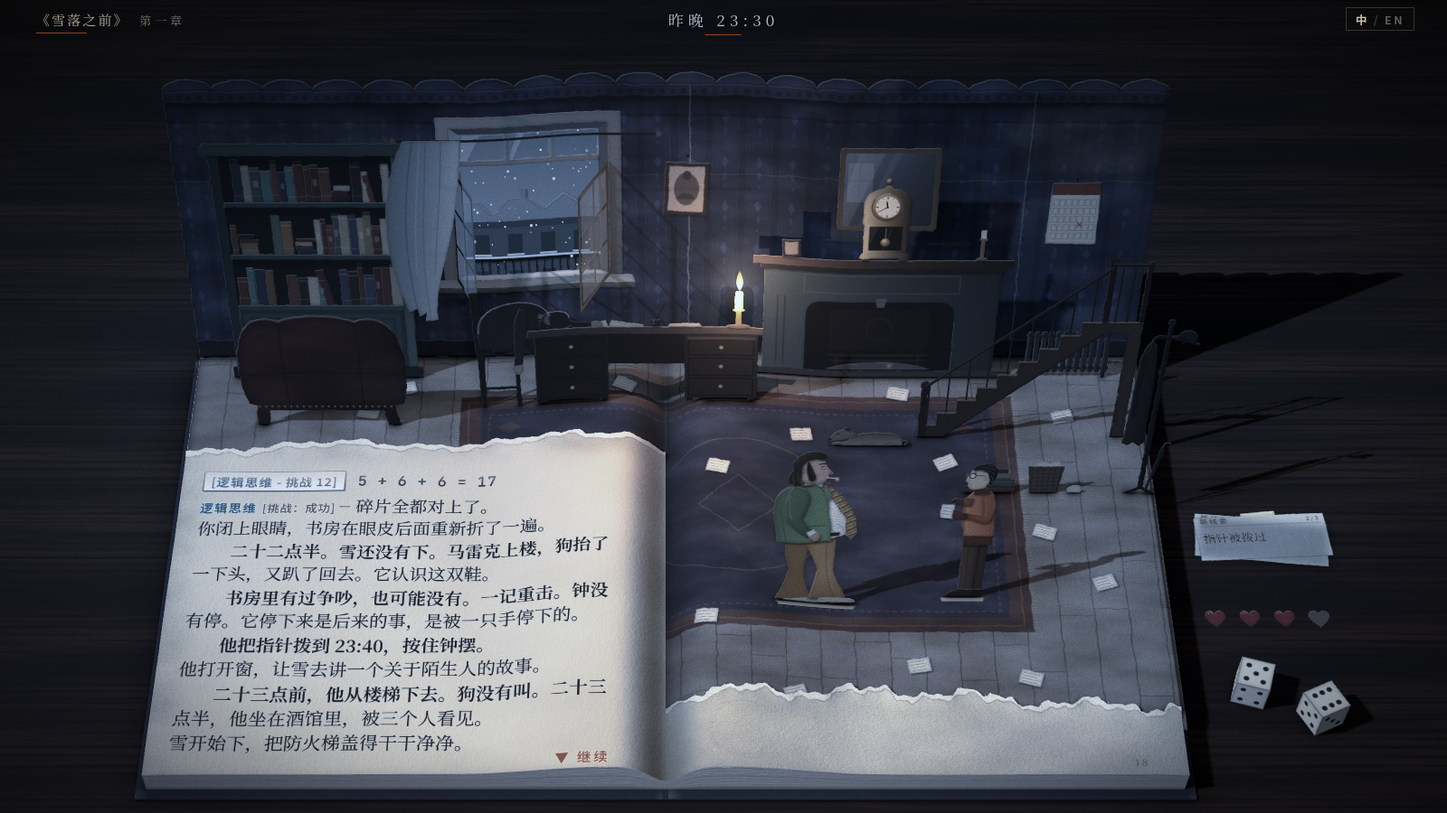
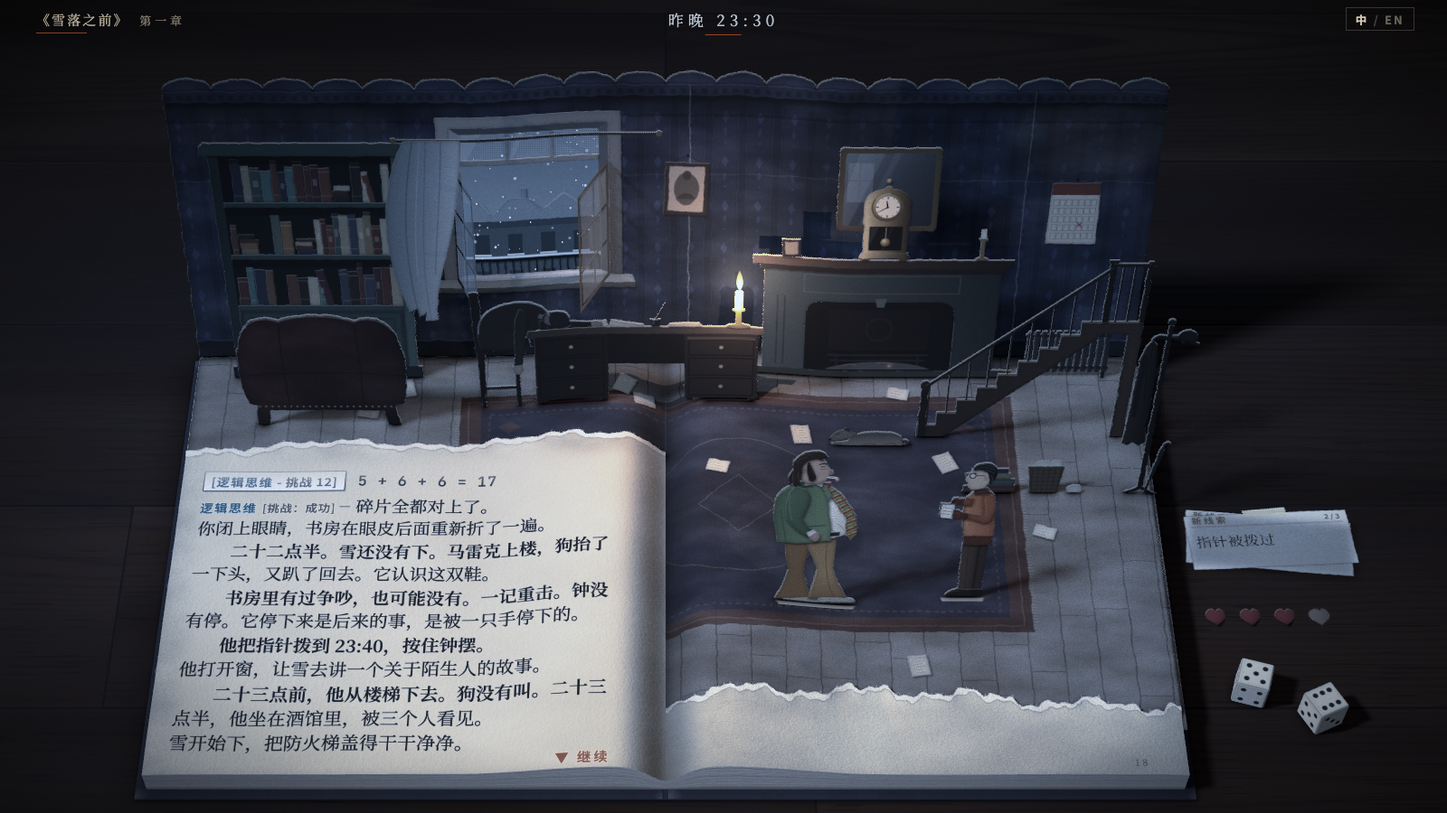
docs: describe the third polish round and refresh the screenshots

diff --git a/docs/handoff.md b/docs/handoff.md
@@ -13,39 +13,47 @@
 | 技术栈 | Vite 8、TypeScript 5.9（strict，禁止未使用变量）、Three.js r186（WebGL 2），无 UI 框架；测试用 vitest |
 | 文档 | `README.md`（运行、模块、功能说明）、`docs/design.md`（方案、剧本、规则、视觉）、`docs/tech-eval.md`（技术栈评估）、本文件 |
 
-## 2. 当前状态（2026-09-26）
+## 2. 当前状态（2026-09-27）
 
-- `main`：M1 最小 Demo 完成，第一章可从开场玩到「第一章 完」；含 M1 之后的第一次打磨（提交 37792f4：放大日志、逐段推进、减淡纸纹、加强光影、突出新线索、悬停提示）。
-- [PR #1](https://github.com/deadblue22/agent-elysium/pull/1)（草稿，分支 `claude/gracious-pascal-b81l6p` → `main`）：M1 之后的第二次打磨。
-  - 视角从 74° 改为 58°，整本书入画。
-  - 书页加深到 670 × 720。
-  - 日志字形从 20–22 像素缩小到约 16 像素，纵向拉伸 1.1 倍补偿斜视。
-  - 右页改为房间地板，人物站进房间；骰子、士气、线索卡移到桌面。
-  - 马雷克在房间里走动；时间标记显示真实时间；雪只在窗外。
-  - 结尾改为离场、熄烛、「第一章 完」。
-  - 验证已通过：单元测试 28 项、构建、中英文静帧、中英文无头通关；Vercel 预览部署成功。
-  - 合并前需在浏览器中目视确认预览页。
-- 本文件第 4–8 节描述 PR #1 合并后的代码。PR #1 未合并时，从该分支继续开发。
+- `main`：M1 最小 Demo 完成，第一章可从开场玩到「第一章 完」。含 M1 之后的两次打磨：
+  - 第一次（提交 37792f4）：放大日志、逐段推进、减淡纸纹、加强光影、突出新线索、悬停提示。
+  - 第二次（[PR #1](https://github.com/deadblue22/agent-elysium/pull/1)，已合并）：视角 58°、日志字形约 16 像素、右页改为房间地板、骰子等道具移到桌面、马雷克走动、结尾离场熄烛。
+- [PR #2](https://github.com/deadblue22/agent-elysium/pull/2)（分支 `claude/handsoff-polish-9bc7b7` → `main`）：M1 之后的第三次打磨，针对质感。
+  - 主光阴影随距离变软（PCSS）：落脚处清晰，远处柔和。墙在桌面上的影子不再是硬边的深色楔形。
+  - 立体层、纸偶、楼梯、狗与马雷克有了卡纸厚度：朝上的切边露出一条浅色纸芯。卡片从背面看是素色纸背。
+  - 木桌改为着色器绘制的胡桃木：木板、年轮、导管、板缝。原来的 1 倍烘焙纹理是拉伸的噪声，放大后是模糊的横纹。
+  - 地板上的散落纸页从 14 张减到 10 张，分账页与订货单两种，颜色压暗，集中在书桌附近。
+  - 纸心改为哑光纸片，沿中线对折；骰子改为圆角纸骰；桌面线索卡放大 1.25 倍。
+  - 开场：立体层先正面朝下折在书页上，露出素色纸背，再由后往前逐排翻起。窗扇随墙打开，书桌立起后点亮蜡烛，墙立起后开始下雪。修复了立体层向后倒平时伸出书头、悬在桌面上方的问题。
+  - 纹理改为 WebP（色彩有损、透明通道无损），`public/textures` 从 14.9 MB 降到 1.8 MB，构建产物从约 18 MB 降到约 3 MB。
+  - 工具脚本在 macOS 上改用本机 Chrome 与 GPU。
+  - 验证已通过：单元测试 28 项、构建、中英文静帧、中英文无头通关（无控制台错误）、悬停提示命中检查。
+- 本文件第 3–8 节描述 PR #2 合并后的代码。PR #2 未合并时，从该分支继续开发。
 
 ## 3. 环境与命令
 
-| 命令 | 作用 | 云端容器内耗时 |
-|---|---|---|
-| `npm install` | 安装依赖（需要 Node 20+） | — |
-| `npm test` | 引擎与打字节奏的单元测试 | 约 1 秒 |
-| `npm run build` | 类型检查并构建到 `dist/` | 约 5 秒，产物约 18 MB |
-| `npm run dev` | 开发服务器 | — |
-| `npm run shot` / `npm run shot -- --lang en` | 渲染风格板静帧，写 `docs/style-board-three*.png`，并打印构图与字形尺寸 | 约 1 分钟 |
-| `npm run play` | 无头通关中英文各一遍，写 `docs/m1-*.png`；`-- --only zh` 只跑中文 | 约 8 分钟（只跑中文约 5 分钟） |
-| `npm run extract-art` | 从 `demo/index.html` 重新生成提取类纸片的 SVG | 数秒 |
-| `npm run bake [名称…]` | 把 `assets/art/*.svg` 烘焙成 `public/textures/*.png` 与 `manifest.json` | 地板约 18 秒，其余数秒 |
-| `npm run fonts` | 按全部台词重新裁剪字体子集（需要访问 Google Fonts） | — |
+| 命令 | 作用 | 云端容器内耗时 | macOS（M4 Pro）耗时 |
+|---|---|---|---|
+| `npm install` | 安装依赖（需要 Node 20+） | — | — |
+| `npm test` | 引擎与打字节奏的单元测试 | 约 1 秒 | 约 1 秒 |
+| `npm run build` | 类型检查并构建到 `dist/` | 约 5 秒 | 约 1 秒；产物约 3 MB |
+| `npm run dev` | 开发服务器 | — | — |
+| `npm run shot` / `npm run shot -- --lang en` | 渲染风格板静帧，写 `docs/style-board-three*.png`，并打印构图、字形尺寸与帧耗时 | 约 1 分钟 | 约 5 秒 |
+| `npm run play` | 无头通关中英文各一遍，写 `docs/m1-*.png`；`-- --only zh` 只跑中文 | 约 8 分钟（只跑中文约 5 分钟） | 约 2 分钟 |
+| `npm run extract-art` | 从 `demo/index.html` 重新生成提取类纸片的 SVG | 数秒 | 数秒 |
+| `npm run bake [名称…]` | 把 `assets/art/*.svg` 烘焙成 `public/textures/*.webp` 与 `manifest.json` | 地板约 18 秒，其余数秒 | 地板约 2 秒 |
+| `npm run fonts` | 按全部台词重新裁剪字体子集（需要访问 Google Fonts） | — | — |
 
 页面参数：`?still` 风格板静帧；`?lang=en` 英文；`?seed=N` 骰子种子；`?dice=4-5,3-3` 强制掷骰点数；`?speed=N` 倍速；`?debug` 在 `window.__debug` 暴露场景对象。`tools/play.mjs` 通过 `window.__play` 驱动游戏。
 
+浏览器：`tools/chromium.mjs` 决定 `bake`、`shot`、`play`、`extract-art` 使用的浏览器，可用 `CHROMIUM_PATH` 覆盖。
+
+- macOS：使用 `/Applications/Google Chrome.app`，WebGL 2 走 GPU（ANGLE Metal），1600 × 900 约 8 毫秒一帧。
+- 云端容器：使用预装的 Chromium（`/opt/pw-browsers/chromium-1194/chrome-linux/chrome`），不要运行 `playwright install`。
+
 云端容器的注意事项：
 
-- Chromium 预装在 `/opt/pw-browsers/chromium-1194/chrome-linux/chrome`（`tools/chromium.mjs`，可用 `CHROMIUM_PATH` 覆盖），不要运行 `playwright install`。没有 GPU，WebGL 2 由 SwiftShader 提供，每帧 2–3 秒。
+- 没有 GPU，WebGL 2 由 SwiftShader 提供，每帧 2–3 秒。
 - 网络策略放行 Google Fonts；拦截 vercel.app、vercel.com、Steam、Fandom、维基百科、百度百科。因此无法在容器内查看部署页，也无法下载原作图片。
 - 长任务（`play`）放到后台运行，按输出文件判断进度。
 
@@ -55,15 +63,21 @@
 |---|---|
 | 相机俯角、焦距、构图、视差 | `src/scene/camera.ts` 的 `VIEW`（俯角 58、焦距 2600 帧像素、书尾边在画面第 858 行、封面宽 1190 像素、书中心在第 736 列） |
 | 书页尺寸 | `src/page/layout.ts` 的 `PAGE`（670 × 720），必须与 `tools/extract-art.mjs` 的 `BOOK_H` 一致 |
-| 撕口、家具行距、地毯、散落纸页 | `tools/extract-art.mjs` 开头的 `LEFT_TEAR`、`RIGHT_TEAR`、`ROWS`、`RUG`、`FLOOR_H` 与地板脚本；改完运行 `extract-art`，再 `bake floor page-left page-right`。散落纸页的坐标在 `src/scene/hotspots.ts` 的 `PAPERS` 里有一份副本，需同步 |
+| 撕口、家具行距、地毯 | `tools/extract-art.mjs` 开头的 `LEFT_TEAR`、`RIGHT_TEAR`、`ROWS`、`RUG`、`FLOOR_H` 与地板脚本；改完运行 `extract-art`，再 `bake floor page-left page-right` |
+| 散落纸页 | `assets/art/floor-papers.json`（每张 `[x, y, 角度, 宽, 高]`，y 从折线量起；高大于宽为账页，否则为订货单）。`extract-art` 按它画进地板，悬停提示按它划分区域；改完运行 `extract-art` 与 `bake floor` |
 | 立体层的铰接行与后倾角 | `src/scene/popup.ts` 的 `PIECES` |
 | 哈里与金的位置、大小 | `src/scene/puppets.ts` 的 `PUPPETS` |
 | 桌面道具（线索卡堆、纸心、骰子） | `src/scene/tabletop.ts` 的 `TABLE`；线索卡落点与尺寸在 `src/scene/lead.ts` 的 `DROP`、`FILED` |
 | 日志字号与行高 | `src/page/layout.ts` 的 `SIZES`；文字栏范围 `textColumn`；纵向拉伸 `src/main.ts` 的 `INK_STRETCH` |
 | 打字速度、标点停顿 | `src/play/log.ts` 的 `TYPE_MS`、`PAUSES`；逐段停顿规则在 `src/play/director.ts` |
 | 灯光 | `src/scene/lights.ts`（半球光、左侧主光、蜡烛、窗光、台灯） |
+| 主光软阴影 | `src/scene/penumbra.ts`；光源角半径 `angle`（度）与最大半影 `max`（世界单位）在 `lights.ts` 调用 `softShadows` 处 |
+| 卡纸厚度与纸背 | `src/scene/paper.ts` 的 `cardEdge`、`CARD_T`（厚度）、`CARD_CORE`（纸芯颜色） |
+| 木桌 | `src/scene/table.ts` 的 `BOARD`（板宽、板长）与着色器 `WOOD`（颜色、年轮密度、板缝） |
+| 纸心的折痕、骰子的圆角 | `src/scene/hearts.ts` 的 `FOLD`；`src/scene/dice.ts` 的 `RoundedBoxGeometry` 半径 |
 | 颗粒、暗角、调色、夜色 | `src/scene/post.ts` |
 | 舞台动画 | `src/scene/cues.ts`。剧本里用到的指令：`flashback`、`snow-stop`、`raise-stairs`、`marek-climb`、`marek-blow`、`clock-set`、`window-open`、`marek-leave`、`snow-start`、`present`、`exit`。时间标记在 `REAL_TIME`，马雷克的行走点在 `SPOT` |
+| 开场 | `src/scene/cues.ts` 的 `FOLDED`（折叠角度）、`flatten()` 与 `enter()`（逐排翻起的节奏、窗扇、蜡烛、雪、烟头） |
 | 剧本、选项、检定 | `src/content/study.ts`，与 `docs/design.md` 4.4 节保持一致；技能与难度在 `skills.ts`；界面文字在 `ui.ts` |
 | 悬停提示 | 文案在 `src/content/hotspots.ts`；拾取区域在 `src/scene/hotspots.ts` 的 `REGIONS` |
 | 检定、旗标、重试规则 | `src/engine/`（`runner.ts`、`rules.ts`），测试在 `runner.test.ts` |
@@ -72,12 +86,15 @@
 
 - **坐标**：书页像素 `bx` 0–1340（书脊在 670）、`by` 0–720（从书头到书尾）；100 书页像素 = 1 世界单位；世界 Y 向上，桌面 Y = 0，+Z 朝向读者。换算函数 `wx`、`wz` 在 `src/scene/space.ts`。
 - **立体层**：每层是一张铰接在底页折线上的纸片（`standing()`），`hinge` 为折线的 `by`，`lean` 为后倾角。
-- **美术流水线**：`assets/art/*.svg` 是源文件。`public/textures/` 由 `bake` 生成，不手改。
-  - `extract-art` 会重新生成以下提取类纸片：far、far-snow、wall、sill-snow、furniture、desk、front-chair、front-right、floor、page-left、page-right、table、dice。要改这些纸片，改脚本，不要直接改 SVG，否则下次提取会被覆盖。
+- **美术流水线**：`assets/art/*.svg` 是源文件。`public/textures/` 由 `bake` 生成（WebP，质量 0.92，透明通道无损），不手改。
+  - `extract-art` 会重新生成以下提取类纸片：far、far-snow、wall、sill-snow、furniture、desk、front-chair、front-right、floor、page-left、page-right、dice。要改这些纸片，改脚本，不要直接改 SVG，否则下次提取会被覆盖。
+  - 木桌不是纸片，由 `src/scene/table.ts` 的着色器绘制，没有纹理。
   - 以下为手绘纸片，不受 `extract-art` 影响：harry、kim、casement、clock-hour、clock-minute、pendulum、stairs、dog、dog-head、marek、heart、heart-empty、lead-card。
   - SVG 根元素的 `data-*` 属性进入 `manifest.json` 的 `meta`，例如脚底位置、撕口范围、地毯范围。
 - **文字**：日志用 Canvas 2D 排版，作为纹理贴在左页网格上，点击用射线取 UV。排版在未拉伸的坐标里进行，绘制时纵向拉伸 1.1 倍；`optionRects()` 返回拉伸后的真实页面坐标。
 - **动画**：一律走 `src/play/clock.ts` 的虚拟时钟（`tween`、`wait`），因此支持倍速、减少动态效果与测试冻结。引擎只产出节拍，`Director` 逐个播放。
+- **卡纸**：用 `standing()` 立起的纸片调用 `cardEdge()`，得到纸芯切边与纸背。平放在地板或桌面上的纸片（地板、线索卡、纸心）不加。
+- **着色器补丁**：`penumbra.ts` 在任何材质编译之前改写 three.js 的 `shadowmap_pars_fragment`、`lights_fragment_begin` 与 `shadowmask_pars_fragment`。升级 three.js 后如果锚点文本变了，启动时直接报错，不会静默失效。主光的阴影贴图是普通深度纹理，只能用 `PCFShadowMap` 类型；聚光灯与蜡烛仍用 three.js 自带的 PCF。
 - **字体**：新增或修改台词后运行 `npm run fonts`，否则缺字会回退到系统字体。
 - **双语**：每条文本写成 `{ zh, en }`。
 - **截图**：画面改动后重新生成 `docs/style-board-three*.png`（`shot`）与 `docs/m1-*.png`（`play`）并提交。
@@ -94,6 +111,11 @@
 | 雪只在窗外 | 室内飘雪不自然 |
 | 颗粒强度 0.05 | 用户认为噪点过重，多次下调 |
 | 纸偶按文字资料绘制 | 原作图片所在站点被网络策略拦截 |
+| 主光阴影用 PCSS | 窗光是大面积光源，影子应在落脚处清晰、随距离变软；统一的小半径 PCF 让桌面上的墙影又硬又暗。three.js r186 的 PCF 用比较采样器，读不到遮挡物深度，所以主光单独用普通深度纹理 |
+| 卡纸厚度用背面副本实现 | 相机从上方看，副本只在朝上的切边露出，与真实卡纸的受光方式一致；不需要为每张纸片生成挤出网格，副本同时充当纸背 |
+| 开场改为向前折叠 | 向后倒平时，高的纸片伸出书头、悬在桌面上方。真实立体书合上时纸片向前折在书页上；朝前折叠后越靠后的纸片越在上层，由后往前翻起时不会互相穿过 |
+| 木桌用着色器绘制 | 原烘焙纹理只有 1 倍分辨率，放大后是模糊的横纹；着色器按世界坐标绘制，任何分辨率都清晰，还省去 1 MB 纹理 |
+| 纹理用 WebP | PNG 共 14.9 MB，其中地板与墙各 4 MB 以上；WebP 质量 0.92 时色差约 2/255，透明通道无损，总量 1.8 MB |
 
 ## 7. 用户偏好
 
@@ -111,11 +133,11 @@
 
 ## 8. 已知问题与候选工作
 
-- 主光在左侧，墙在书右后方的桌面上投下的影子偏大、偏暗。可以抬高主光或加大阴影半径。
-- 线索卡堆上的字很小，目前靠悬停提示查看。
 - 纸偶没有按原作立绘校准，需要用户在对话中附参考图，或在环境设置中放行对应域名。
-- 开场首帧，立体层向后倒平时会伸出书头、悬在桌面上方，持续不到 1 秒。
-- 包体约 18 MB，其中 `floor.png` 4.7 MB。可以改用 WebP，或降低烘焙倍率。
+- 主光软阴影的采样盘按像素旋转，宽半影里有细小的噪点，被颗粒掩盖。弱 GPU 上帧耗时会增加（M4 Pro 上 1600 × 900 约 8 毫秒）。
+- 回忆中的楼梯与狗仍从向后平躺升起，升起途中穿过家具层，大部分被墙与家具挡住。
+- 纸心的对折在书右侧的墙影里不明显（那里只有台灯照明）。
+- 线索卡堆已放大，但卡上的证据名在 1600 宽画面中仍只有约 14 像素，完整列表靠悬停提示。
 - `docs/design.md` 7.2 节是方案阶段的模块规划，与实际代码不一致，以 README 为准。
 - M2 计划（`docs/design.md` 8 节）：
   - 第二章：二楼房客的房间，对质马雷克。
@@ -126,7 +148,7 @@
 
 ## 9. 迭代流程
 
-1. 从 `main` 建分支。PR #1 未合并时，从 `claude/gracious-pascal-b81l6p` 继续。
+1. 从 `main` 建分支。PR #2 未合并时，从 `claude/handsoff-polish-9bc7b7` 继续。
 2. 修改后依次运行 `npm test`、`npm run build`、`npm run shot`（中英文）。改到交互或动画时，再跑 `npm run play`。
 3. 同步更新 README、`docs/design.md`、本文件与截图。
 4. 提交并推送，开 PR 到 `main`。Vercel 生成预览部署，在浏览器中确认后合并。

diff --git a/README.md b/README.md
@@ -20,7 +20,7 @@
 npm install
 npm run dev      # 开发服务器
 npm run build    # 类型检查并构建到 dist/
-npm run bake     # assets/art/*.svg 烘焙为 public/textures/*.png 与 manifest.json
+npm run bake     # assets/art/*.svg 烘焙为 public/textures/*.webp 与 manifest.json
 npm run fonts    # 按全部台词重新裁剪字体子集到 public/fonts（需要网络）
 npm run shot     # 构建、在 Chromium 中渲染，截图到 docs/style-board-three*.png
 npm run shot -- --lang en   # 英文版截图
@@ -30,8 +30,9 @@ npm test         # 对话引擎的单元测试
 
 打开页面即从 `study.intro` 开始游玩第一章，一直到「第一章 完」。
 
-- **画面**：相机以约 58° 的俯角从书的正前方看过去，接近坐在桌前看书的角度。整本书和立体书房完整入画，四周露出木桌。左页顶层纸撕到约四分之一深度，撕口后方的地板上立着书架、壁炉、书桌与扶手椅，撕口以下是对话日志。右页顶层纸撕到接近页尾，房间地板一直铺到那里，哈里与金站在房间中央的地毯上。书右侧的桌面上从远到近放着线索卡堆、四颗纸心（士气）与两枚骰子。窗外下着雪，雪只在窗洞里可见。
-- **书页打开**：立体书房逐排立起，纸偶随后立起。
+- **画面**：相机以约 58° 的俯角从书的正前方看过去，接近坐在桌前看书的角度。整本书和立体书房完整入画，四周露出胡桃木桌面。左页顶层纸撕到约四分之一深度，撕口后方的地板上立着书架、壁炉、书桌与扶手椅，撕口以下是对话日志。右页顶层纸撕到接近页尾，房间地板一直铺到那里，哈里与金站在房间中央的地毯上。书右侧的桌面上从远到近放着线索卡堆、四颗对折的纸心（士气）与两枚圆角纸骰。窗外下着雪，雪只在窗洞里可见。
+- **质感**：窗侧主光的影子在落脚处清晰、随距离变软（PCSS），墙在桌面上的影子是柔和的渐变。立着的纸片都有卡纸厚度，朝上的切边露出一条浅色纸芯。木桌由着色器按世界坐标绘制：木板、年轮、导管与板缝，任何分辨率都清晰。
+- **书页打开**：立体书房先正面朝下折在书页上，露出素色纸背，再由后往前逐排翻起，纸偶最后立起。墙立起时窗扇打开、窗外开始下雪，书桌立起后蜡烛点亮。
 - **日志逐字打出**：中文每字 55 毫秒，英文每字符 28 毫秒；逗号类标点后多停 120 毫秒（英文 80），句末标点后多停 260 毫秒（英文 180）；内心声音在名字后停 0.3 秒。打字时点击补全当前一段。每段打完停下，左页右下角闪烁「▼ 继续」，点击、空格或回车进入下一段；玩家自己的「你 —」行、紧接选项的最后一段与掷骰行不停。
 - **选项**：数字键 1–9 或点击选择。检定选项悬停时显示成功率与修正（「+1 指针被拨过」）；失败待重试的白色检定置灰并提示原因；红色检定的标签前有红色菱形。
 - **掷骰**：两枚纸骰子从右侧掷到桌面上，翻滚约 0.8 秒后停在掷出的点数上，再打出掷骰行（2 与 12 加「蛇眼。」「满贯。」）。士气变化时桌面上的纸心依次翻面。
@@ -44,17 +45,17 @@ npm test         # 对话引擎的单元测试
 
 `?still` 是风格板：第一章 `study.clock` 节点的一个静止瞬间（见微知著检定成功、第一条线索已归入桌面卡堆、士气 3/4）。左页日志自下而上排列，旧行升入撕口处淡出，鼠标滚轮可在左页上翻看历史。鼠标移动时相机有几度的视差，悬停左页的当前选项会高亮。右上角可切换中英文，游戏中切换会立即补全正在打字的一行并重排日志与选项，不重置进度。
 
-`bake` 与 `shot` 使用预装的 Chromium（路径见 `tools/chromium.mjs`，可用 `CHROMIUM_PATH` 覆盖），没有 GPU 时由 SwiftShader 提供 WebGL 2。页面参数：`?still` 显示风格板并冻结雪、颗粒与光标，用于截图；`?lang=en` 以英文打开；`?seed=N` 固定骰子种子；`?dice=4-5,3-3,5-6` 依次强制之后几次掷骰的点数；`?speed=N` 以 N 倍速播放动画与打字（测试用）；`?debug` 在 `window.__debug` 暴露场景对象。`npm run play` 通过 `window.__play` 读取选项（编号、id、状态）并用数字键按 id 选择，在指定时刻冻结虚拟时钟截图，断言没有控制台错误且到达结尾。
+`bake`、`shot`、`play` 与 `extract-art` 通过 `tools/chromium.mjs` 选择浏览器（可用 `CHROMIUM_PATH` 覆盖）：macOS 上用本机 Google Chrome 与 GPU；云端容器里用预装的 Chromium，没有 GPU 时由 SwiftShader 提供 WebGL 2。页面参数：`?still` 显示风格板并冻结雪、颗粒与光标，用于截图；`?lang=en` 以英文打开；`?seed=N` 固定骰子种子；`?dice=4-5,3-3,5-6` 依次强制之后几次掷骰的点数；`?speed=N` 以 N 倍速播放动画与打字（测试用）；`?debug` 在 `window.__debug` 暴露场景对象。`npm run play` 通过 `window.__play` 读取选项（编号、id、状态）并用数字键按 id 选择，在指定时刻冻结虚拟时钟截图，断言没有控制台错误且到达结尾。
 
 ## 模块
 
-- `src/scene/`：`table` 木桌，`book` 布面书壳、书芯与书口纸线、底页上的地板、两张撕开的顶页（左页撕到约四分之一深度，右页撕到接近页尾），`popup` 背景板五层，`puppets` 站在地板上的哈里与金和纸质立脚，`tabletop` 桌面道具的摆放，`dice` 桌面上的骰子与掷骰动画，`hearts` 桌面上的士气纸心，`lead` 新线索卡片（落在右页，点击后归入桌面卡堆），`hotspots` 悬停提示的拾取（按纹理透明度的射线命中、各背景层内的区域）与提亮，`cues` 全部舞台指令（窗扇、钟的指针与钟摆、窗外与窗台的积雪、楼梯与狗、马雷克在房间里的行走、调色与灯光、时间标记、结尾的退场与熄烛）和入场时的逐排立起，`lights` 灯光与阴影，`post` 颗粒、暗角、调色与夜色，`camera` 相机与视差，`snow` 窗外的雪，`space` 坐标、书页截面曲线与纸片工具，`paper` 纸纹、布纹、书口纸线与烘焙的接触阴影。
+- `src/scene/`：`table` 着色器绘制的胡桃木桌面（木板、年轮、导管、板缝），`book` 布面书壳、书芯与书口纸线、底页上的地板、两张撕开的顶页（左页撕到约四分之一深度，右页撕到接近页尾），`popup` 背景板五层，`puppets` 站在地板上的哈里与金和纸质立脚，`tabletop` 桌面道具的摆放，`dice` 桌面上的圆角纸骰与掷骰动画，`hearts` 桌面上对折的士气纸心，`lead` 新线索卡片（落在右页，点击后归入桌面卡堆），`hotspots` 悬停提示的拾取（按纹理透明度的射线命中、各背景层内的区域）与提亮，`cues` 全部舞台指令（窗扇、钟的指针与钟摆、窗外与窗台的积雪、楼梯与狗、马雷克在房间里的行走、调色与灯光、时间标记、结尾的退场与熄烛）和开场时纸片从书页上逐排翻起，`lights` 灯光与阴影，`penumbra` 主光的软阴影（PCSS，改写 three.js 的阴影着色器片段），`post` 颗粒、暗角、调色与夜色，`camera` 相机与视差，`snow` 窗外的雪，`space` 坐标、书页截面曲线与纸片工具，`paper` 纸纹、布纹、书口纸线、烘焙的接触阴影与卡纸厚度（纸芯切边与纸背）。
 - `src/play/`：`clock` 虚拟时钟（补间、等待、倍速、减少动态效果、测试用的冻结），`director` 逐个播放引擎给出的节拍，每段之后等待点击，并在等待玩家选择时接受输入，`log` 左页日志的逐字打出（按标点停顿）、滚动、选项、「▼ 继续」、读屏镜像与选项提示。
 - `src/page/`：`layout` 日志排版（说话者 + 破折号、结果标签、编号选项、置灰与红色检定标记；中文按字断行、避头尾，英文按词；自下而上锚定），`painter` 画布绘制（纵向拉伸 1.1 倍，抵消斜看纸面造成的字形压扁）、逐字显示、滚动窗口与撕口处的淡出，`hit` 射线命中选项。
 - `src/engine/`：对话引擎（节点、检定、旗标、士气、白色重试与红色一次性），只产出节拍，不做动画。
 - `src/content/`：`schema` 类型（design.md 7.3），`skills` 九项技能、属性色、难度与标签格式，`study` 第一章全部节点，`study-clock` 风格板瞬间，`ui` 界面文字（时间标记、新线索、继续、第一章 完、成功率等），`hotspots` 悬停提示的名称与描述。
-- `assets/art/*.svg`：每张纸片一个矢量源文件，撕边与纸纹滤镜写在文件里，只在烘焙时运行。纸偶 `harry.svg`、`kim.svg` 为手绘，根元素的 `data-*` 属性给出脚底、立脚范围与烟头位置。M1 新增的手绘纸片：`casement` 窗扇，`clock-hour`、`clock-minute`、`pendulum` 钟的指针与钟摆，`stairs` 楼梯与平台，`dog`、`dog-head` 房东太太的狗，`marek` 马雷克的剪影，`heart`、`heart-empty` 士气心形，`lead-card` 新线索卡片；`far-snow`、`sill-snow` 由 `extract-art` 从旧风格板拆出。地板（含地毯与散落纸页）与两张顶页的撕口也由 `extract-art` 生成，参数见脚本开头。
-- `public/textures/`：烘焙结果；`public/fonts/`：字体子集。
+- `assets/art/*.svg`：每张纸片一个矢量源文件，撕边与纸纹滤镜写在文件里，只在烘焙时运行。`floor-papers.json` 是地板上散落纸页的位置与大小，地板脚本与悬停提示共用。纸偶 `harry.svg`、`kim.svg` 为手绘，根元素的 `data-*` 属性给出脚底、立脚范围与烟头位置。M1 新增的手绘纸片：`casement` 窗扇，`clock-hour`、`clock-minute`、`pendulum` 钟的指针与钟摆，`stairs` 楼梯与平台，`dog`、`dog-head` 房东太太的狗，`marek` 马雷克的剪影，`heart`、`heart-empty` 士气心形，`lead-card` 新线索卡片；`far-snow`、`sill-snow` 由 `extract-art` 从旧风格板拆出。地板（含地毯与散落纸页）与两张顶页的撕口也由 `extract-art` 生成，参数见脚本开头。
+- `public/textures/`：烘焙结果（WebP，透明通道无损，共约 1.8 MB）；`public/fonts/`：字体子集。
 - `tools/`：`bake` 烘焙，`shot` 截图，`subset-fonts` 字体子集，`extract-art` 从旧风格板提取纸片（一次性迁移工具，重跑会覆盖它生成的纸片，不动手绘的纸偶）。
 
 ## 字体
@@ -67,4 +68,4 @@ npm test         # 对话引擎的单元测试
 
 ## 当前阶段
 
-M1 最小 Demo：第一章可从开场完整玩到「第一章 完」，包括全部检定与骰子动画、旗标与士气、白色重试与红色一次性、还原成功的完整舞台动画与语言切换。M1 之后的第二次打磨调整了视角、文字尺寸与右页的作用（见 design.md 6.1）。下一步是 M2。
+M1 最小 Demo：第一章可从开场完整玩到「第一章 完」，包括全部检定与骰子动画、旗标与士气、白色重试与红色一次性、还原成功的完整舞台动画与语言切换。M1 之后的第二次打磨调整了视角、文字尺寸与右页的作用（见 design.md 6.1）；第三次打磨针对质感：软阴影、卡纸厚度、木桌、桌面道具、开场与纹理体积（见 design.md 8 节）。下一步是 M2。
